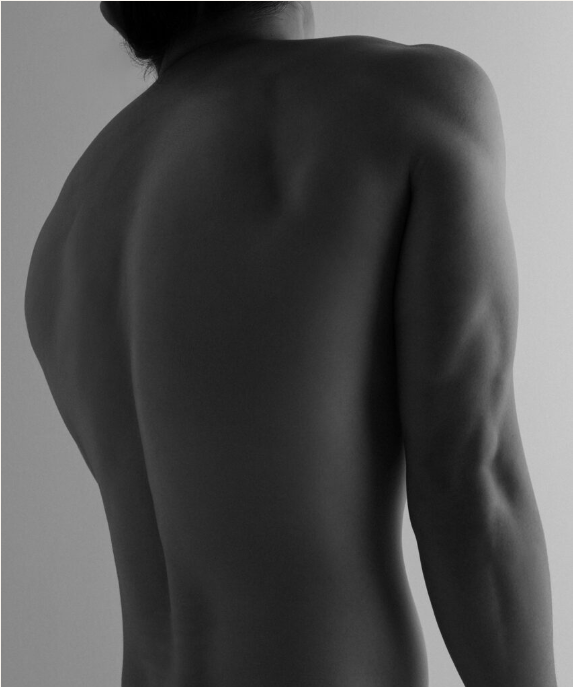
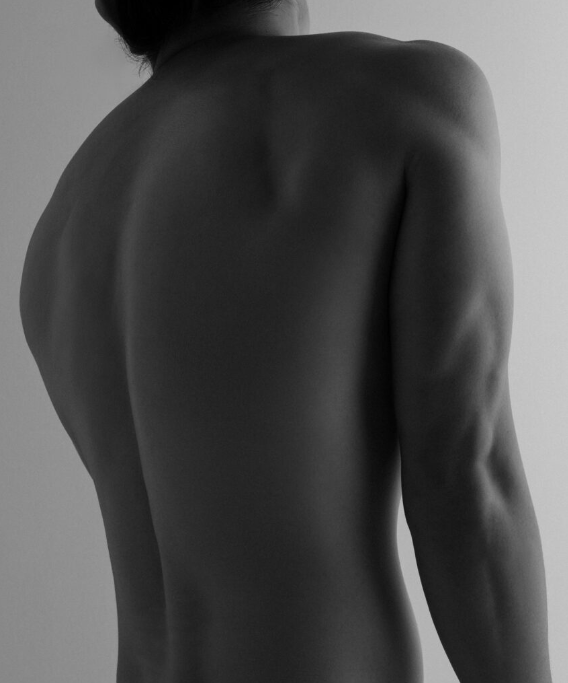
update images

diff --git a/index.html b/index.html
@@ -56,7 +56,7 @@
 
     <!-- Home Banner -->
     <div id="section1">
-      <img src="images/banner.png" id="home-banner"/>
+      <img src="images/homecover.png" id="home-banner"/>
       <h1 class="banner-header" id="homeheader1">Be The</h1>
       <h1 class="banner-header" id="homeheader2">Best Version</h1>
       <h1 class="banner-header" id="homeheader3">of Yourself</h1>
